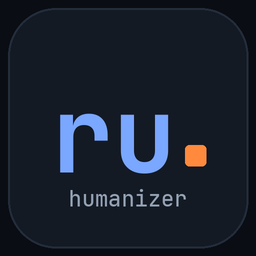
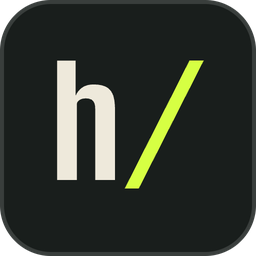
plugin: иконка для каталога, без адаптеров облачных детекторов (#148)
Портал каталога плагинов просил icon в plugin.json и отметил чтение
ключей GPTZERO_API_KEY/ORIGINALITY_API_KEY как «credential from the
user's machine». Адаптеры облачных детекторов остались от июньского
эксперимента, выводы записаны в отчётах, а в плагине редактора текста
обвязка коммерческих детекторов ИИ читается как инструмент обхода.
Локальные ru_roberta и ollama_llm остаются. Иконки assets/ заменены на
текущий знак h/ (его же берёт Codex-манифест).

Claude-Session: https://claude.ai/code/session_01R28qyLNgeGNvtT1YUzCnpV

Changed region(s): [[0.0, 0.0, 1.0, 1.0], [0.2188, 0.2188, 0.8125, 0.8125], [0.7188, 0.5625, 0.8125, 0.6562]]

diff --git a/eval/detectors/base.py b/eval/detectors/base.py
@@ -1,7 +1,7 @@
 """Базовый контракт детектора AI-текста.
 
-Детектор — это адаптер над внешним сервисом (GPTZero, Originality) или
-локальной моделью (ru-roberta). Все они опциональны: если ключа/пакета нет,
+Детектор — это адаптер над локальной моделью (ru-roberta, Ollama). Все они
+опциональны: если пакета или модели нет,
 детектор сообщает available=False и score() возвращает None. Оркестратор
 (run_eval.py) собирает только доступные детекторы через registry и спокойно
 деградирует, если их нет вообще — метрики считаются всегда.
@@ -15,7 +15,7 @@ from abc import ABC, abstractmethod
 class Detector(ABC):
     """Абстрактный детектор. Возвращает вероятность того, что текст AI (0..1)."""
 
-    #: короткое имя для отчёта (например "gptzero")
+    #: короткое имя для отчёта (например "ru_roberta")
     name: str = "detector"
 
     @property

diff --git a/eval/detectors/ollama_llm.py b/eval/detectors/ollama_llm.py
@@ -1,9 +1,8 @@
 """Детектор AI-текста на локальной Ollama (без облачных ключей).
 
 Просит локальную LLM оценить вероятность 0..1, что русский текст
-машинно-сгенерирован, по чётким признакам нейросетевого стиля. В отличие от
-облачных детекторов (GPTZero, Originality) не требует ключей и сети наружу —
-только живой демон Ollama.
+машинно-сгенерирован, по чётким признакам нейросетевого стиля. Не требует
+ключей и сети наружу — только живой демон Ollama.
 
 Доступность = llm_backend.available(). Любая ошибка вызова -> score() = None.
 

diff --git a/eval/README.md b/eval/README.md
@@ -31,8 +31,6 @@
 2. **Реальные детекторы** (опционально, флаг `--detectors`) — модели,
    возвращающие вероятность «текст написан AI» 0..1:
    - **ollama_llm** — ЛОКАЛЬНАЯ Ollama (по умолчанию), без ключей и сети наружу;
-   - **GPTZero** (облако, ключ `GPTZERO_API_KEY`);
-   - **Originality.ai** (облако, ключ `ORIGINALITY_API_KEY`);
    - **ru_roberta** (локальная HF-модель, transformers + torch);
    - **ollama_ppl** — приближённый perplexity-детектор (флаг `--perplexity`, см. ниже).
 
@@ -137,8 +135,6 @@ pip install -r eval/requirements-eval.txt
 | `OLLAMA_EMBED` | embedding-модель Ollama (faithfulness cosine) | `nomic-embed-text` |
 | `OLLAMA_PPL_MODEL` | модель для perplexity-детектора `ollama_ppl` | `gemma3:1b` |
 | `JUDGE_BACKEND` | бэкенд судьи: `auto` / `ollama` / `anthropic` | `auto` |
-| `GPTZERO_API_KEY` | облачный детектор GPTZero (опц.) | — |
-| `ORIGINALITY_API_KEY` | облачный детектор Originality.ai (опц.) | — |
 | `ANTHROPIC_API_KEY` | LLM-судья через Anthropic (опц., НЕ обязателен) | — |
 | `JUDGE_MODEL` | модель Anthropic-судьи (если выбран этот бэкенд) | `claude-sonnet-4-6` |
 | `RU_DETECTOR_MODEL` | HF-имя локального детектора `ru_roberta` | — |
@@ -261,8 +257,6 @@ eval/
 │   └── human/*.txt        — человеческие тексты (контроль)
 ├── detectors/
 │   ├── base.py            — ABC Detector + контракт
-│   ├── gptzero.py         — адаптер GPTZero (облако)
-│   ├── originality.py     — адаптер Originality.ai (облако)
 │   ├── ru_roberta.py      — локальный HF-детектор
 │   ├── ollama_llm.py      — локальный LLM-детектор (Ollama)
 │   ├── ollama_ppl.py      — приближённый perplexity-детектор (Ollama, --perplexity)

diff --git a/PRIVACY_POLICY.md b/PRIVACY_POLICY.md
@@ -11,8 +11,7 @@
 - Детерминированный сканер (`scan.py`) работает полностью офлайн: читает файл,
   печатает отчёт в stdout. Сетевых вызовов в коде нет.
 - Eval-харнес (`eval/`) опционален и по умолчанию использует локальную модель
-  через Ollama на вашей машине. Адаптеры внешних детекторов (GPTZero и др.)
-  включаются только если вы сами зададите их API-ключи.
+  через Ollama на вашей машине. Адаптеров облачных детекторов в нём нет.
 
 ## Что видит модель
 
